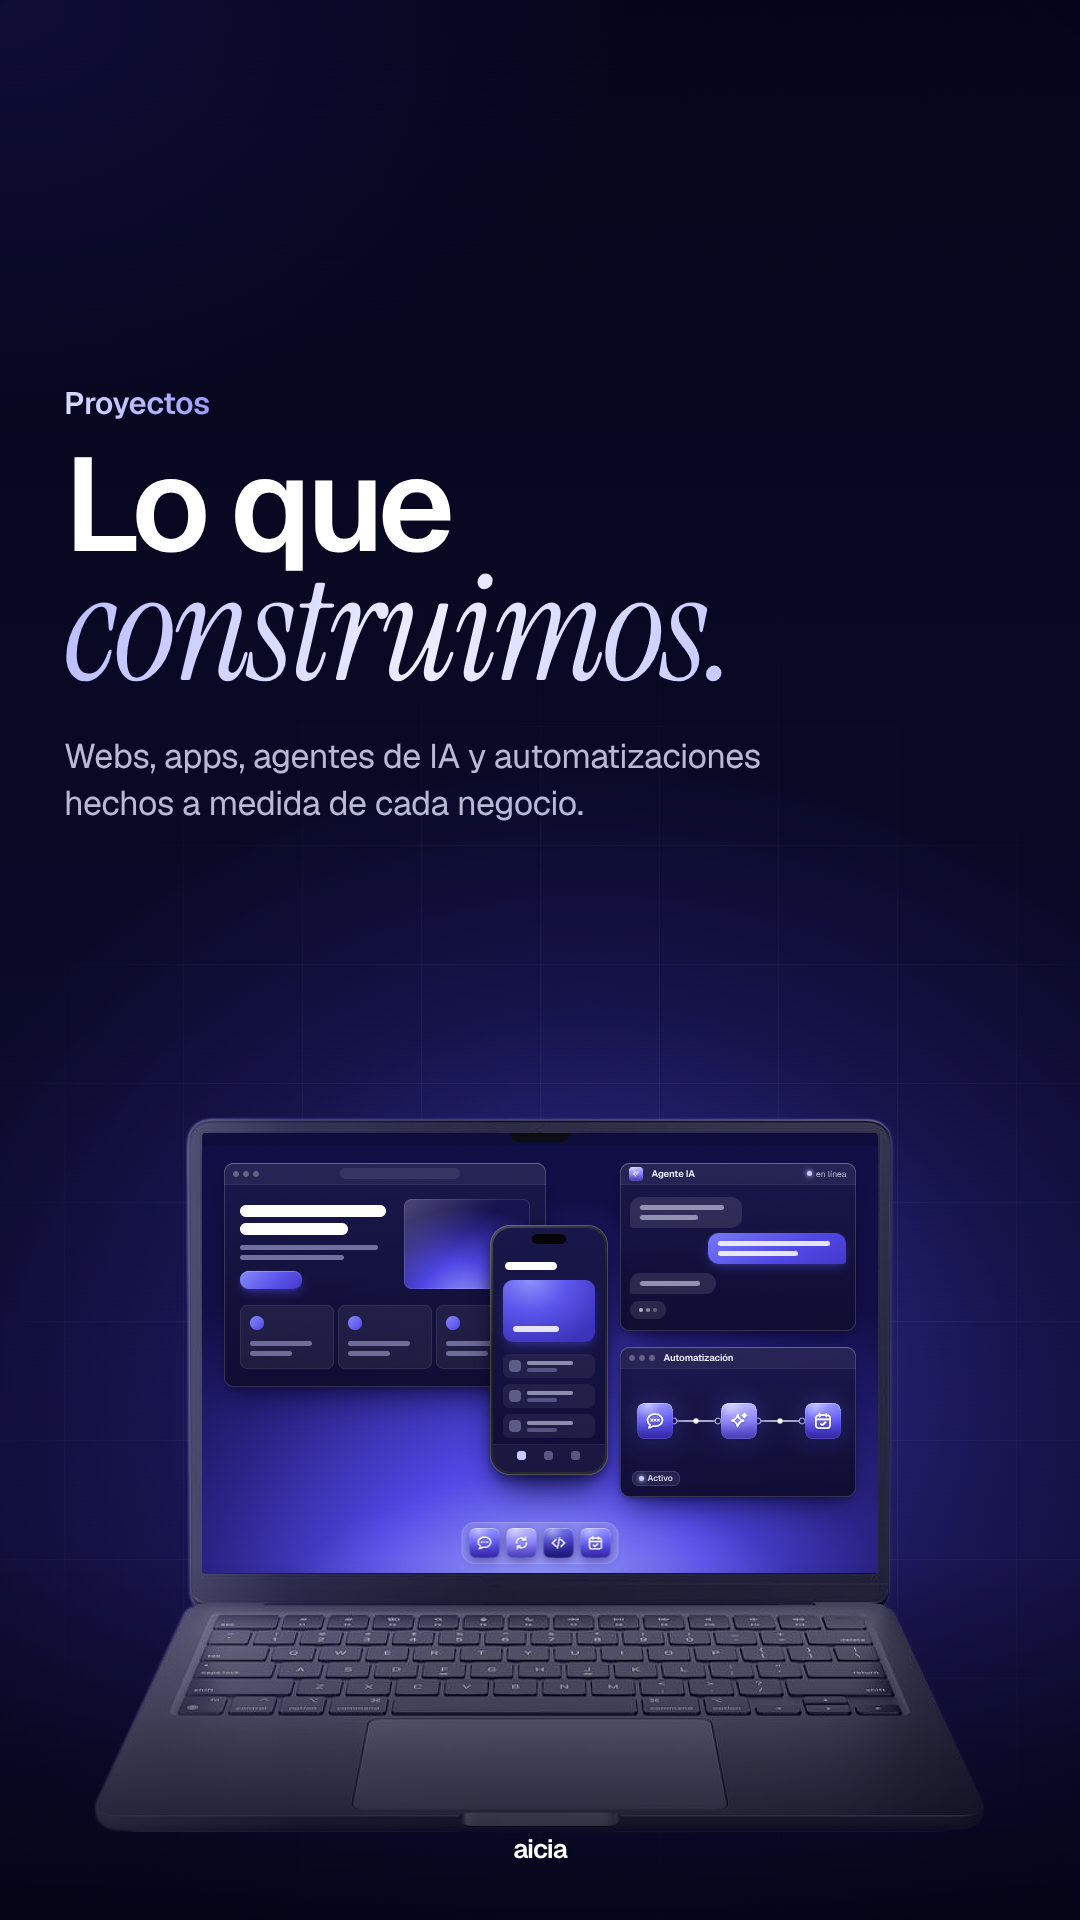
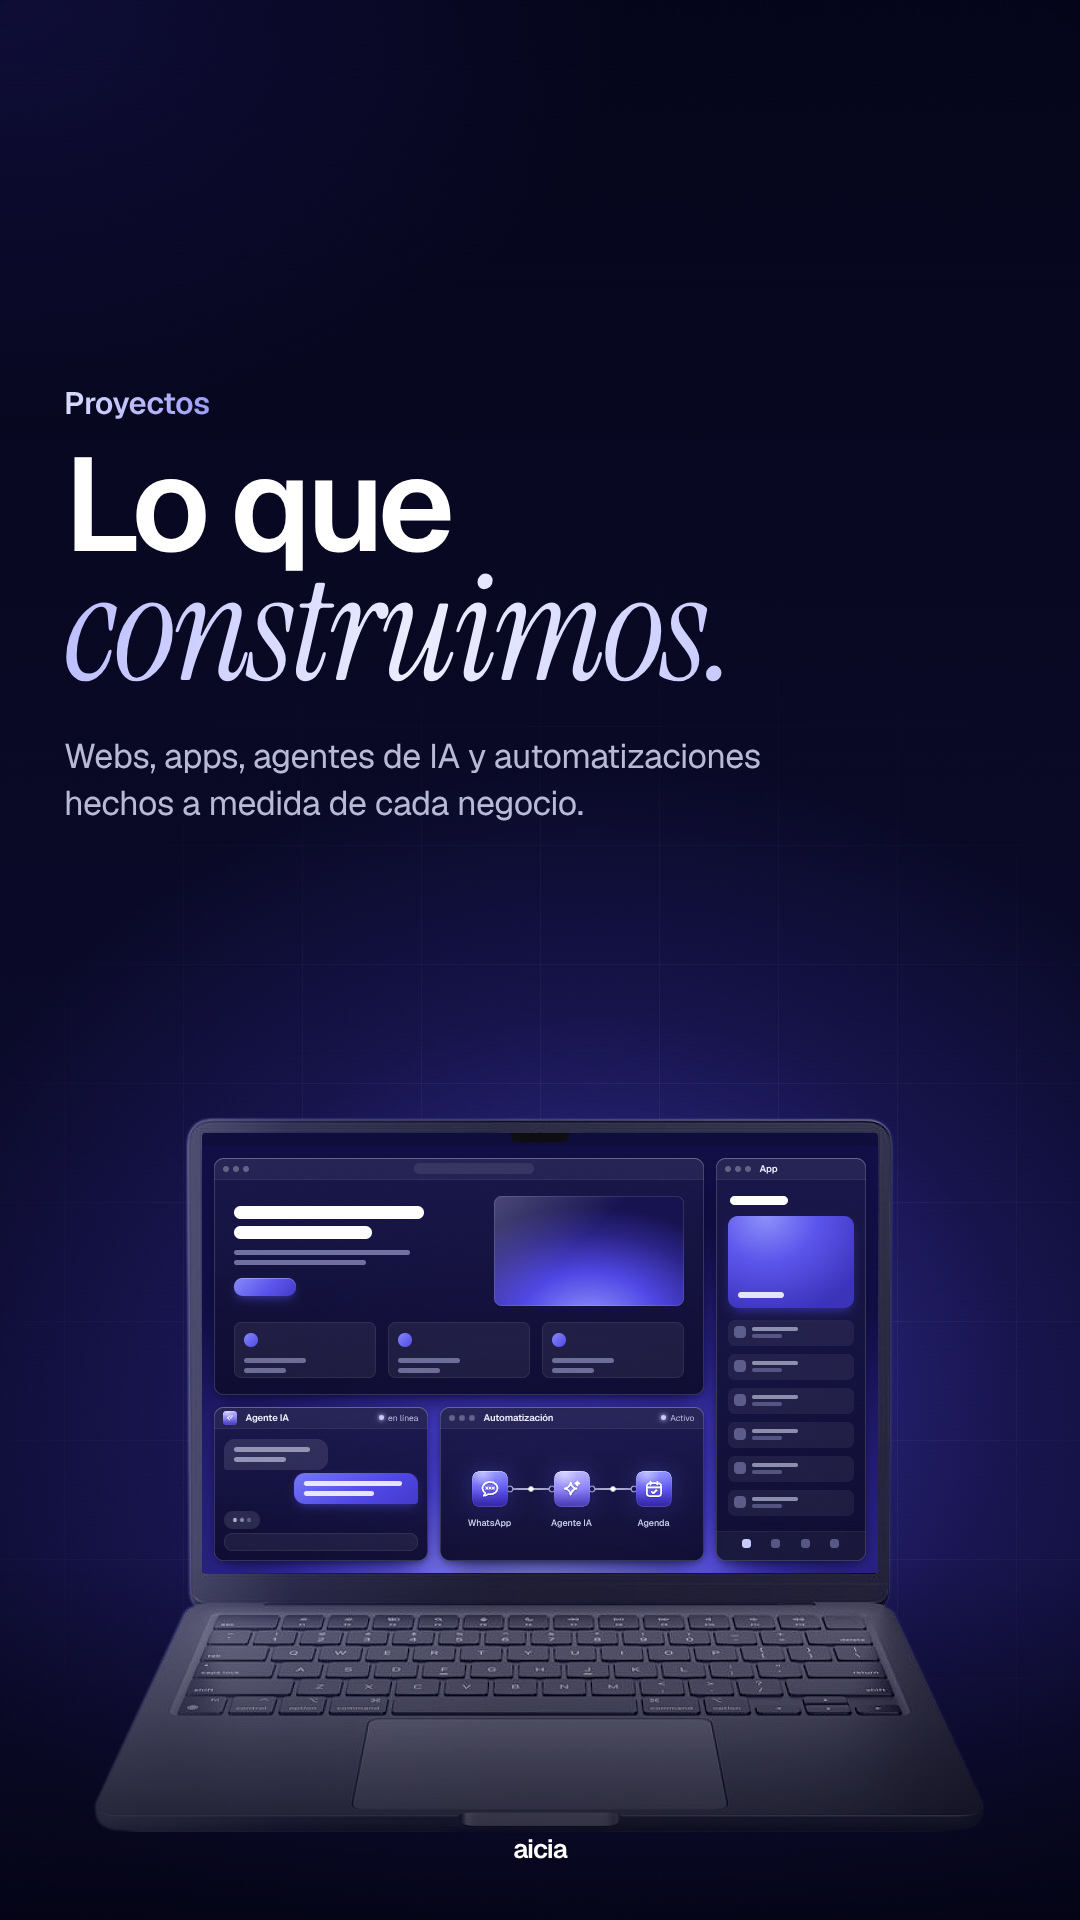
Proyectos: pantalla en mosaico equilibrado con web, app, agente de IA y automatización
Claude-Session: https://claude.ai/code/session_01SBSshHAET78NiDLxszLW9R

Changed region(s): [[0.1833, 0.5938, 0.825, 0.8438]]

diff --git a/historias/clientes-proyectos/historias.html b/historias/clientes-proyectos/historias.html
@@ -244,8 +244,6 @@ svg.app .gl .f{fill:#fff;stroke:none}
 .mac-screen::before{content:"";position:absolute;inset:0;background:radial-gradient(60% 60% at 50% 120%,rgba(199,201,255,.55),transparent 70%)}
 .mac-screen .notch{position:absolute;left:50%;top:0;width:58px;height:9px;margin-left:-29px;background:#0E0E12;border-radius:0 0 6px 6px;z-index:2}
 .mac-screen .bar{position:absolute;left:0;right:0;top:0;height:13px;background:rgba(10,8,40,.35);backdrop-filter:blur(6px)}
-.mac-screen .dock{position:absolute;left:50%;bottom:9px;transform:translateX(-50%);display:flex;gap:7px;padding:6px 8px;border-radius:14px;background:rgba(255,255,255,.14);backdrop-filter:blur(10px);box-shadow:inset 0 0 0 .5px rgba(255,255,255,.3)}
-.mac-screen .dock svg.app{width:30px;height:30px;filter:drop-shadow(0 3px 5px rgba(10,8,70,.45))}
 /* Pantalla: web, app, agente de IA y automatización */
 .mac-screen .win{position:absolute;border-radius:10px;overflow:hidden;background:linear-gradient(180deg,rgba(26,24,74,.94),rgba(14,12,46,.96));box-shadow:inset 0 0 0 .7px rgba(255,255,255,.22),inset 0 1px 0 rgba(255,255,255,.16),0 16px 30px -10px rgba(6,4,40,.75),0 2px 6px rgba(6,4,40,.35)}
 .mac-screen .win > *{position:absolute}
@@ -276,7 +274,7 @@ svg.app .gl .f{fill:#fff;stroke:none}
 .mac-screen .typing i:nth-child(2){opacity:.7}.mac-screen .typing i:nth-child(3){opacity:.4}
 .mac-screen .auto .wires{left:0;top:0}
 .mac-screen .nd{width:36px;height:36px;filter:drop-shadow(0 4px 7px rgba(6,4,40,.6)) drop-shadow(0 0 8px rgba(99,102,241,.35))}
-.mac-screen .on{left:12px;bottom:11px;display:flex;align-items:center;gap:4px;height:15px;padding:0 7px;border-radius:8px;font-size:8.5px;font-weight:500;color:#E4E5FF;background:rgba(199,201,255,.10);box-shadow:inset 0 0 0 .5px rgba(199,201,255,.3)}
+.mac-screen .on{display:none;display:flex;align-items:center;gap:4px;height:15px;padding:0 7px;border-radius:8px;font-size:8.5px;font-weight:500;color:#E4E5FF;background:rgba(199,201,255,.10);box-shadow:inset 0 0 0 .5px rgba(199,201,255,.3)}
 .mac-screen .phn{position:absolute;width:118px;height:250px;padding:3px;border-radius:21px;background:linear-gradient(145deg,#4A4A58,#1A1A22 40%,#2C2C36);box-shadow:inset 0 0 0 .6px rgba(255,255,255,.3),0 20px 34px -10px rgba(4,3,30,.85),0 4px 10px rgba(4,3,30,.45);z-index:2}
 .mac-screen .ps{position:relative;width:100%;height:100%;border-radius:18px;overflow:hidden;background:linear-gradient(180deg,#191748,#100E36)}
 .mac-screen .ps > *{position:absolute}
@@ -287,7 +285,11 @@ svg.app .gl .f{fill:#fff;stroke:none}
 .mac-screen .row i{position:absolute;left:6px;top:6px;width:12px;height:12px;border-radius:4px;background:rgba(199,201,255,.35)}
 .mac-screen .row b{position:absolute;left:24px;height:4px;border-radius:2px;background:rgba(226,228,255,.55)}
 .mac-screen .row b:nth-of-type(1){top:7px;width:46px}.mac-screen .row b:nth-of-type(2){top:14px;width:30px;background:rgba(199,201,255,.3)}
-.mac-screen .tabs{left:0;right:0;bottom:0;height:28px;display:flex;justify-content:space-around;align-items:center;padding:0 16px 4px;background:rgba(255,255,255,.04);box-shadow:inset 0 .6px 0 rgba(255,255,255,.08)}
+.mac-screen .app .feat{left:12px;right:12px}
+.mac-screen .app .row{left:12px;right:12px;height:26px}
+.mac-screen .inp{left:10px;right:10px;bottom:10px;height:18px;border-radius:9px;background:rgba(255,255,255,.06);box-shadow:inset 0 0 0 .6px rgba(255,255,255,.12)}
+.mac-screen .lbl{transform:translateX(-50%);font-size:9px;font-weight:500;color:#D2D4EE;white-space:nowrap}
+.mac-screen .tabs{left:0;right:0;bottom:0;height:30px;display:flex;justify-content:space-around;align-items:center;padding:0 16px 4px;background:rgba(255,255,255,.04);box-shadow:inset 0 .6px 0 rgba(255,255,255,.08)}
 .mac-screen .tabs i{width:9px;height:9px;border-radius:3px;background:rgba(199,201,255,.35)}
 .mac-screen .tabs i:first-child{background:#C7C9FF}
 
@@ -433,53 +435,42 @@ svg.app .gl .f{fill:#fff;stroke:none}
   <div class="subj" data-src="assets/macbook.png" data-rim="left" style="left:94px;top:940px;width:892px;--tint:.18;--rim:.45"></div>
   <div class="mac-screen" style="left:201.5px;top:1132.5px;width:676px;height:440px">
     <div class="bar"></div><div class="notch"></div>
-    <!-- Web -->
-    <div class="win web" style="left:22px;top:30px;width:322px;height:224px">
+    <!-- Mosaico: web (grande), app (alta), agente de IA y automatización; separación pareja de 12 px -->
+    <div class="win web" style="left:12px;top:25px;width:490px;height:237px">
       <div class="wt"><i></i><i></i><i></i><span class="url"></span></div>
-      <span class="sk" style="left:16px;top:42px;width:146px;height:12px"></span>
-      <span class="sk" style="left:16px;top:60px;width:108px;height:12px"></span>
-      <span class="sk p" style="left:16px;top:82px;width:138px"></span><span class="sk p" style="left:16px;top:92px;width:104px"></span>
-      <span class="btn" style="left:16px;top:108px"></span>
-      <span class="hero" style="left:180px;top:36px;width:126px;height:90px"></span>
-      <span class="cd" style="left:16px;top:142px"><i></i><b></b><b></b></span><span class="cd" style="left:114px;top:142px"><i></i><b></b><b></b></span><span class="cd" style="left:212px;top:142px"><i></i><b></b><b></b></span>
+      <span class="sk" style="left:20px;top:48px;width:190px;height:13px"></span>
+      <span class="sk" style="left:20px;top:68px;width:138px;height:13px"></span>
+      <span class="sk p" style="left:20px;top:92px;width:176px"></span><span class="sk p" style="left:20px;top:102px;width:132px"></span>
+      <span class="btn" style="left:20px;top:120px"></span>
+      <span class="hero" style="left:280px;top:38px;width:190px;height:110px"></span>
+      <span class="cd" style="left:20px;top:164px;width:142px;height:56px"><i></i><b></b><b></b></span><span class="cd" style="left:174px;top:164px;width:142px;height:56px"><i></i><b></b><b></b></span><span class="cd" style="left:328px;top:164px;width:142px;height:56px"><i></i><b></b><b></b></span>
     </div>
-    <!-- Agente de IA -->
-    <div class="win chat" style="left:418px;top:30px;width:236px;height:168px">
+    <div class="win app" style="left:514px;top:25px;width:150px;height:403px">
+      <div class="wt"><i></i><i></i><i></i><b>App</b></div>
+      <span class="sk" style="left:14px;top:38px;width:58px;height:9px"></span>
+      <span class="feat" style="top:58px;height:92px"></span>
+      <span class="row" style="top:162px"><i></i><b></b><b></b></span><span class="row" style="top:196px"><i></i><b></b><b></b></span><span class="row" style="top:230px"><i></i><b></b><b></b></span><span class="row" style="top:264px"><i></i><b></b><b></b></span><span class="row" style="top:298px"><i></i><b></b><b></b></span><span class="row" style="top:332px"><i></i><b></b><b></b></span>
+      <span class="tabs"><i></i><i></i><i></i><i></i></span>
+    </div>
+    <div class="win chat" style="left:12px;top:274px;width:214px;height:154px">
       <div class="wt"><svg class="app av" viewBox="0 0 100 100" data-g="g-spark" data-s="ap-light"></svg><b>Agente IA</b><em><i></i>en línea</em></div>
-      <span class="bub in" style="top:34px;width:112px"><b style="width:84px"></b><b style="width:58px"></b></span>
-      <span class="bub out" style="top:70px;width:138px"><b style="width:112px"></b><b style="width:80px"></b></span>
-      <span class="bub in" style="top:110px;width:86px"><b style="width:60px"></b></span>
-      <span class="typing"><i></i><i></i><i></i></span>
+      <span class="bub in" style="top:32px;width:104px"><b style="width:76px"></b><b style="width:52px"></b></span>
+      <span class="bub out" style="top:66px;width:124px"><b style="width:98px"></b><b style="width:70px"></b></span>
+      <span class="typing" style="top:104px"><i></i><i></i><i></i></span>
+      <span class="inp"></span>
     </div>
-    <!-- Automatización -->
-    <div class="win auto" style="left:418px;top:214px;width:236px;height:150px">
-      <div class="wt"><i></i><i></i><i></i><b>Automatización</b></div>
-      <svg class="wires" viewBox="0 0 236 150" width="236" height="150">
-        <g fill="none" stroke="#8487FA" stroke-width="4" stroke-opacity=".5" filter="url(#mglow)"><path d="M54 74H98M138 74H182"/></g>
-        <g fill="none" stroke="#D9DAFF" stroke-width="1.6" stroke-linecap="round"><path d="M54 74H98M138 74H182"/></g>
-        <g fill="#0E0D30" stroke="#C7C9FF" stroke-width="1.2"><circle cx="54" cy="74" r="2.8"/><circle cx="98" cy="74" r="2.8"/><circle cx="138" cy="74" r="2.8"/><circle cx="182" cy="74" r="2.8"/></g>
-        <circle cx="76" cy="74" r="2.6" fill="#fff"/><circle cx="160" cy="74" r="2.6" fill="#fff"/>
+    <div class="win auto" style="left:238px;top:274px;width:264px;height:154px">
+      <div class="wt"><i></i><i></i><i></i><b>Automatización</b><em><i></i>Activo</em></div>
+      <svg class="wires" viewBox="0 0 264 154" width="264" height="154">
+        <g fill="none" stroke="#8487FA" stroke-width="4" stroke-opacity=".5" filter="url(#mglow)"><path d="M70 82H112M152 82H194"/></g>
+        <g fill="none" stroke="#D9DAFF" stroke-width="1.6" stroke-linecap="round"><path d="M70 82H112M152 82H194"/></g>
+        <g fill="#0E0D30" stroke="#C7C9FF" stroke-width="1.2"><circle cx="70" cy="82" r="2.8"/><circle cx="112" cy="82" r="2.8"/><circle cx="152" cy="82" r="2.8"/><circle cx="194" cy="82" r="2.8"/></g>
+        <circle cx="91" cy="82" r="2.6" fill="#fff"/><circle cx="173" cy="82" r="2.6" fill="#fff"/>
       </svg>
-      <svg class="app nd" style="left:17px;top:56px" viewBox="0 0 100 100" data-g="g-message" data-s="ap-indigo"></svg>
-      <svg class="app nd" style="left:101px;top:56px" viewBox="0 0 100 100" data-g="g-spark" data-s="ap-light"></svg>
-      <svg class="app nd" style="left:185px;top:56px" viewBox="0 0 100 100" data-g="g-cal" data-s="ap-indigo"></svg>
-      <span class="on"><i></i>Activo</span>
-    </div>
-    <!-- App -->
-    <div class="phn" style="left:288px;top:92px">
-      <div class="ps">
-        <span class="island"></span>
-        <span class="sk" style="left:12px;top:34px;width:52px;height:8px"></span>
-        <span class="feat"></span>
-        <span class="row" style="top:126px"><i></i><b></b><b></b></span><span class="row" style="top:156px"><i></i><b></b><b></b></span><span class="row" style="top:186px"><i></i><b></b><b></b></span>
-        <span class="tabs"><i></i><i></i><i></i></span>
-      </div>
-    </div>
-    <div class="dock">
-      <svg class="app" viewBox="0 0 100 100" data-g="g-ai" data-s="ap-indigo"></svg>
-      <svg class="app" viewBox="0 0 100 100" data-g="g-flow" data-s="ap-light"></svg>
-      <svg class="app" viewBox="0 0 100 100" data-g="g-code" data-s="ap-deep"></svg>
-      <svg class="app" viewBox="0 0 100 100" data-g="g-cal" data-s="ap-indigo"></svg>
+      <svg class="app nd" style="left:32px;top:64px" viewBox="0 0 100 100" data-g="g-message" data-s="ap-indigo"></svg>
+      <svg class="app nd" style="left:114px;top:64px" viewBox="0 0 100 100" data-g="g-spark" data-s="ap-light"></svg>
+      <svg class="app nd" style="left:196px;top:64px" viewBox="0 0 100 100" data-g="g-cal" data-s="ap-indigo"></svg>
+      <span class="lbl" style="left:50px;top:110px">WhatsApp</span><span class="lbl" style="left:132px;top:110px">Agente IA</span><span class="lbl" style="left:214px;top:110px">Agenda</span>
     </div>
   </div>
   <div class="eyebrow tx">Proyectos</div>

diff --git a/CLAUDE.md b/CLAUDE.md
@@ -82,5 +82,5 @@ node portadas-destacadas/render.mjs    # portadas 2160×2160
 - El logo de AeroSport es de baja resolución. Si Guille consigue uno más grande, reemplazarlo.
 
 ### Pendiente
-- **Proyectos**: portada "Lo que *construimos.*": MacBook (`assets/macbook.png`). En la pantalla hay un escritorio con 4 ventanas que muestran todo lo que hace Aicia: web (navegador), app (celular adelante), agente de IA (chat) y automatización (flujo de 3 nodos). Abajo queda el dock. Todo en HTML/CSS dentro de `.mac-screen`. La bajada es "Webs, apps, agentes de IA y automatizaciones hechos a medida de cada negocio." Se descartaron el logo grande, la vista explotada y el flujo n8n a pantalla completa. Próximo: historias de cada proyecto con el logo del cliente chico arriba y la página/app mostrada. La tarjeta Bs.As. Top (web) sigue como placeholder.
+- **Proyectos**: portada "Lo que *construimos.*": MacBook (`assets/macbook.png`). En la pantalla hay un mosaico (bento) de 4 ventanas de distinto tamaño, sin superponerse y con separación pareja de 12 px: web (grande, arriba a la izquierda), app (alta, a la derecha), agente de IA (chat) y automatización (flujo de 3 nodos). No lleva dock. Todo en HTML/CSS dentro de `.mac-screen`. La bajada es "Webs, apps, agentes de IA y automatizaciones hechos a medida de cada negocio." Se descartaron el logo grande, la vista explotada y el flujo n8n a pantalla completa. Próximo: historias de cada proyecto con el logo del cliente chico arriba y la página/app mostrada. La tarjeta Bs.As. Top (web) sigue como placeholder.
 - Opcional: video de demo de un proyecto si Guille pasa grabaciones de pantalla.
